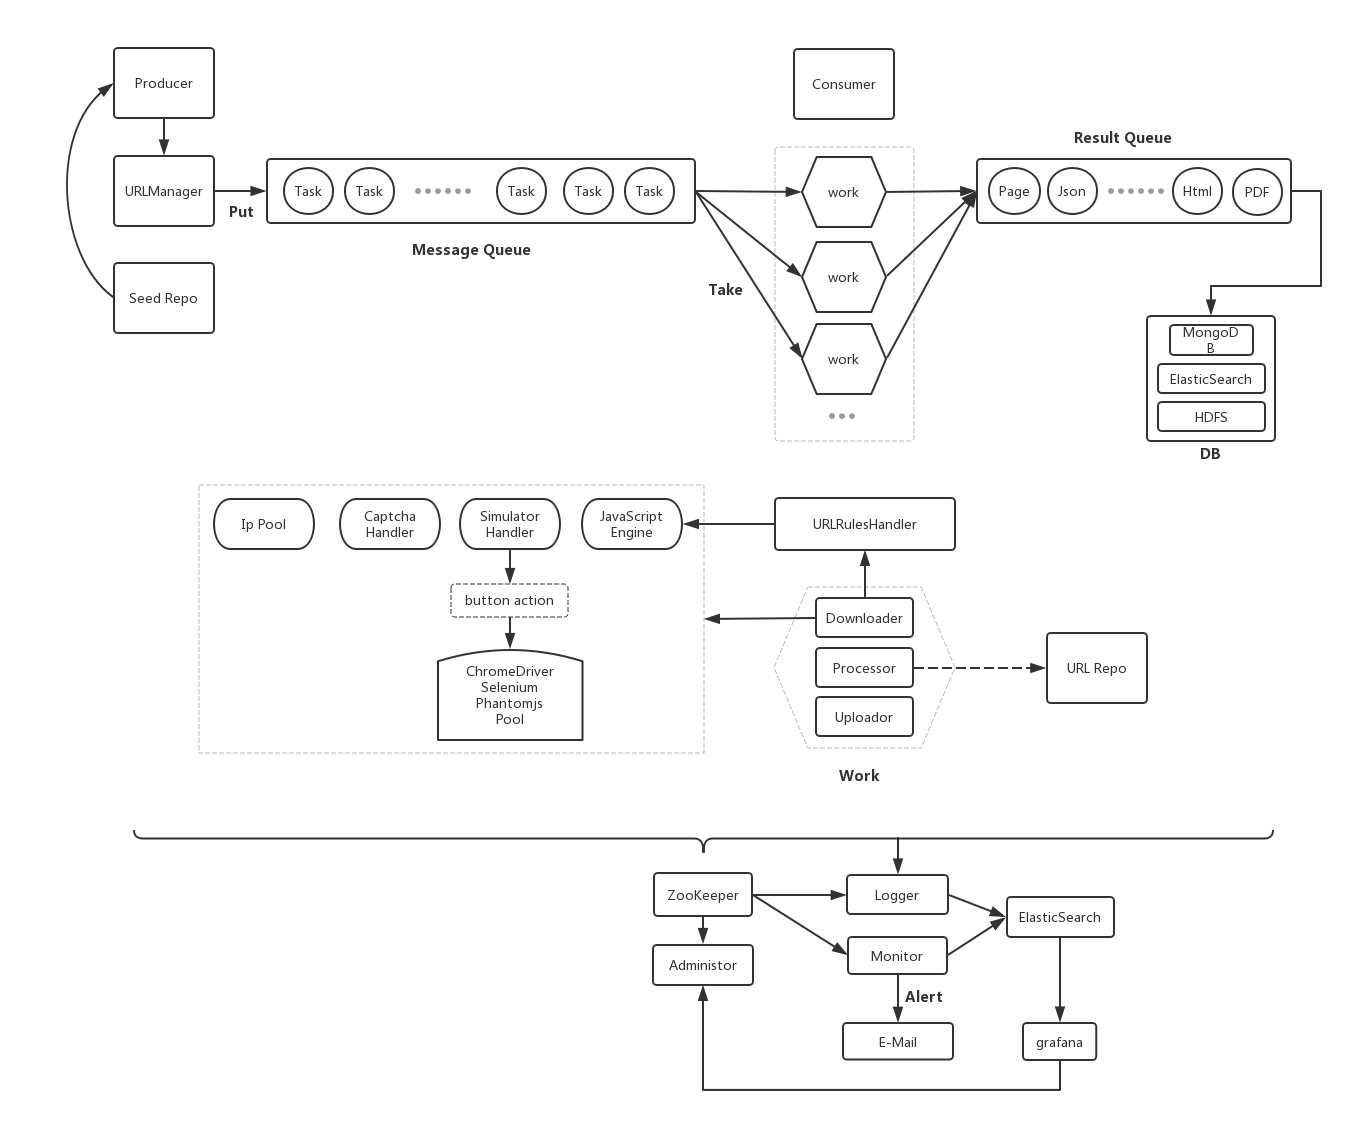
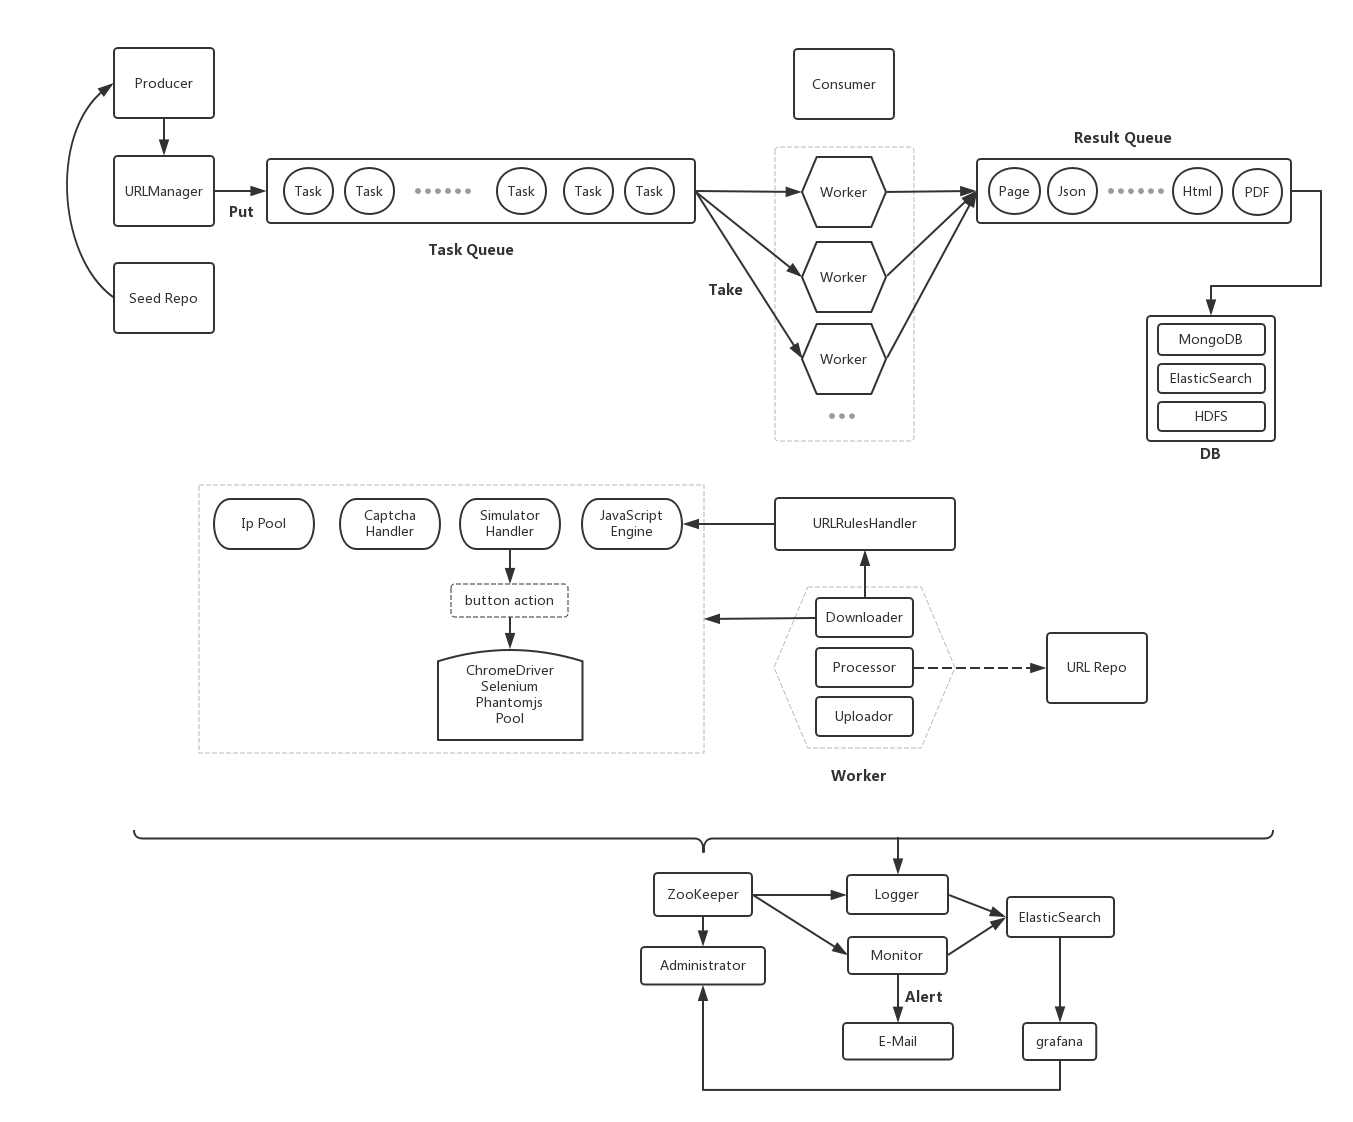
modify readme

diff --git a/README.md b/README.md
@@ -7,60 +7,76 @@
 
 ![](https://github.com/wds1993225/universe-moon/blob/master/MoonNo.4.png)
 
-
-### CORE
->包含基本的工具，包含爬虫框架
-
-### COMPONENT
->包含对redis，zookeeper的操作和配置
-
-### WEB
->提供web服务
+### component-dependency
+    
+    Core:包含基本的工具，包含爬虫框架
+    Component:包含对redis，zookeeper等的操作和配置
+    WEB:提供web服务
+    
+    依赖关系应该为: component --> core --> web
 
 
-依赖关系应该为
 
-component ---> core ---> web
+
+
 
 ----
 
-### core 包含爬虫项目
+#### core 包含爬虫项目
 > 每一个模块都是一个服务，所有的服务都注册到Zookeeper进行统一管理和扩展。
 
 
-#### 组件
+#### 组成:
 
-##### Zookeeper
-> 管理所有的服务，支持负责均衡和热插拔。
+* ##### Zookeeper
+    >管理所有的服务，支持负责均衡和热插拔。
 
-##### Administor
-> 负责管理整个系统的运行，通过控制ZooKeeper来控制系统服务的启动和停止，及提供系统运行的参数。
+* ##### Administrator
+    > 负责管理整个系统的运行，通过控制```ZooKeeper```来控制系统服务的启动和停止，及提供系统运行的参数。
 
-##### Monitor
-> 系统的监控，通过连接ZooKeeper来监控系统运行情况，以及通过邮箱的形式进行警报。监控数据应该上传到ElasticSearch中形成运行报告。
+* ##### Monitor
+    > 系统的监控，通过连接ZooKeeper来监控系统运行情况，以及通过邮箱的形式进行警报。监控数据应该上传到```ElasticSearch```中形成运行报告。
 
-##### Logger
-> 系统运行日志，包括ZooKeeper生产的日志和各个服务生产的日志，上传到ElasticSearch中进行统计。
+* ##### Logger
+    > 系统运行日志，包括ZooKeeper生产的日志和各个服务生产的日志，上传到```ElasticSearch```中进行统计。
 
-##### SeedRepo
-> 保存种子任务，种子的构建需要以一个更加解耦，灵活的方式构建，以便配个各个组件。
+* ##### SeedRepo
+    > 保存种子任务，种子的构建需要以一个更加解耦，灵活的方式构建，以便配合各个组件。
 
-##### URLManager
-> 负责URL的重要性排序，分发，调度，任务分配。
+* ##### URLManager
+    > 负责URL的重要性排序，分发，调度，任务分配。
 一般来说，一个爬取任务中包含几千到一万个URL，这些URL最好是来自不同的host，这样，不会给一个host在很短一段时间内造成高峰值。
 
-##### Message Queue
-> 用于传递生产出的种子任务，连接Producer和Work。需要根据种子的构建方式进行特定构建，支持不同种子通道，支持任务消费失败后的重新消费，支持任务消费成功后的上报。
+* ##### Task Queue
+    > 用于传递生产出的种子任务，连接```Producer```和```Worker```。需要根据种子的构建方式进行特定构建，支持不同种子通道，支持任务消费失败后的重新消费，支持任务消费成功后的上报。
 
-##### Result Queue
-> 传递下载或解析后的数据。可以支持多种类型的数据，支持多种类型的消费者。
+* ##### Result Queue
+    > 传递下载或解析后的数据。可以支持多种类型的数据，支持多种类型的消费者。
 
-##### DB
-> 用于保存文件，原始文件推荐使用HDFS，解析后的结构化数据推荐MongoDB。
+* ##### DB
+    > 用于保存文件，原始文件推荐使用```HDFS```，解析后的结构化数据推荐```MongoDB```。
 
-##### Work
+* ##### Worker
+    > 承担整个消费者的主要任务，包括下载，解析，上传三个部分。
 
-###### 
+    * ##### Downloader
+        > 承担整个```Worker```的网络请求工作，会根据不同的种子任务进行相应的例如操作```模拟浏览器```，执行 ```JavaScript```脚本等，配合常见的反爬工具例如```代理Ip```，```验证码识别```等。
+        下载器应该有多种不同的实现，包含通用的接口，这里希望使用Golang进行实现。
+    * ##### Processor
+        > 承担```Worker```的解析工作，包括将网页解析成结构化的文本，或者从原始数据中解析出新的```URL```进行进一步的请求。
+        解析器应该支持多种解析规则，包括```XPath```,```正则表达式```，```CSS选择器```。
+    * ##### Uploader
+        > 承担```Worker```的上传操作，会将解析的结果推入```Result Queue```中。
+        上传器应该可以配合种子任务中的各种上传规则进行相应队列的上传操作。
+* ##### Logger
+    > 保存系统运行的情况，日志一方面来自```ZooKeeper```，一方面来自各个服务。
+    数据最终会上报到```ElasticSearch```中进行日志的收集。
+    
+* ##### Monitor
+    > 监控的数据主要来自于```ZooKeeper```，目的就是为了监控各个服务的运行情况，如果系统出现问题就会进行邮件报警。
+    监控数据最终会收集到```ElasticSearch```中，配合```Grafana```进行视图展示。
+
+
 
 ----
 
